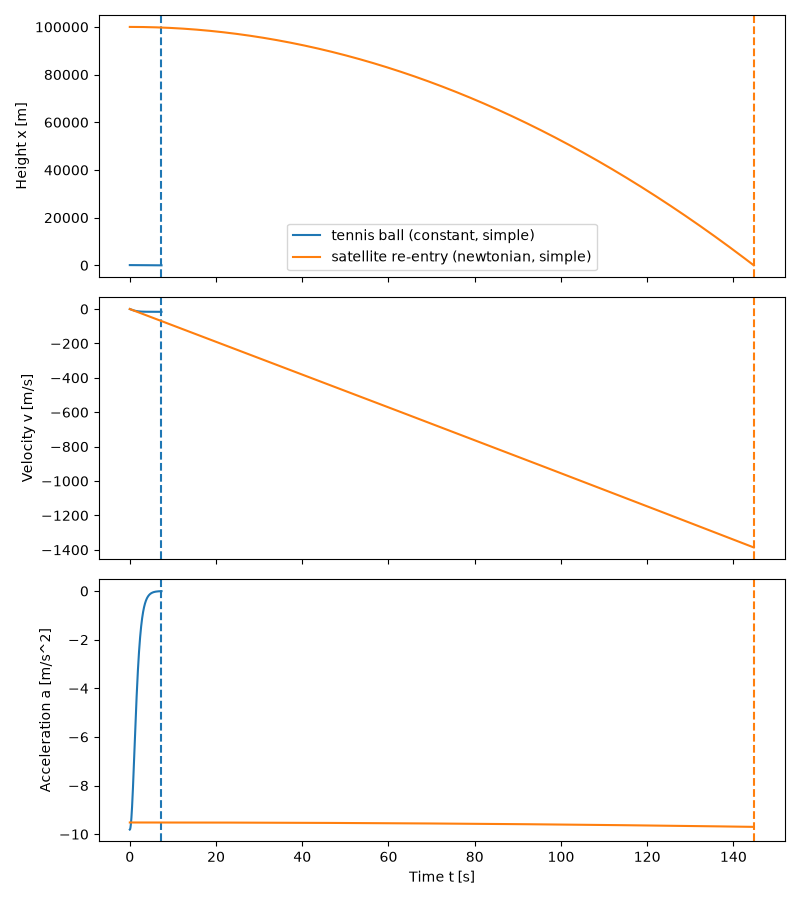
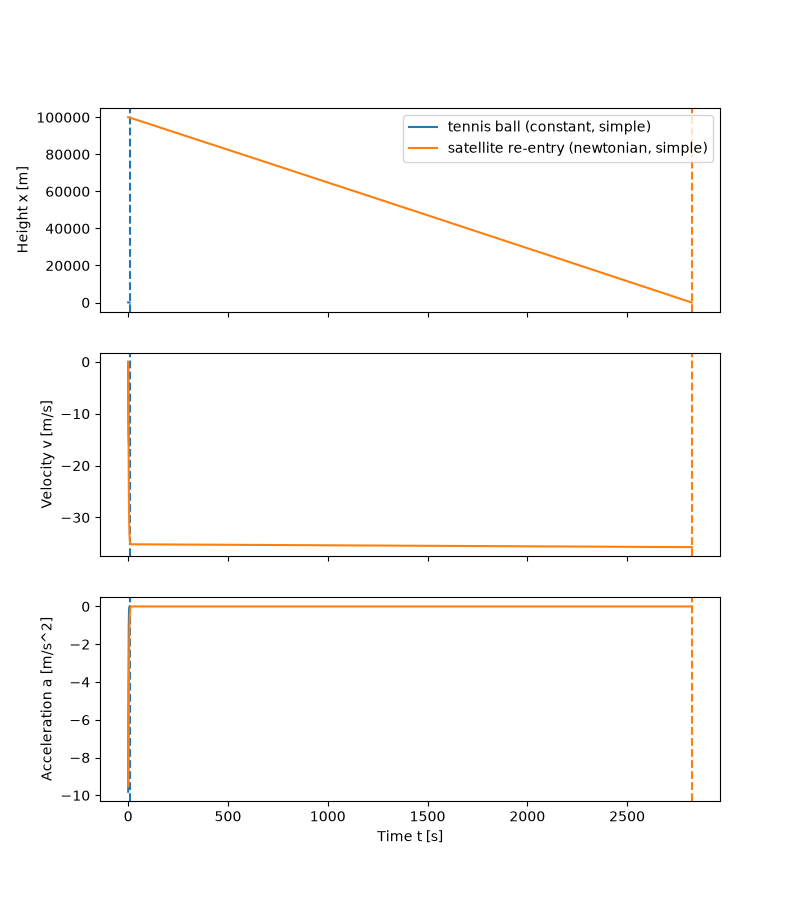
Use sea-level air density in the satellite preset

diff --git a/README.md b/README.md
@@ -7,8 +7,8 @@ It needs Python 3.10 or newer, numpy and matplotlib.
 ![Height, velocity and acceleration of the tennis ball and the satellite re-entry presets on shared axes](docs/plot_overlay.png)
 
 The plot overlays the two shipped presets.
-On shared axes the tennis ball (100 m, about 7 s) is a flat line near zero in the height and velocity panels.
-Its curve is clear only in the acceleration panel.
+The satellite falls at 35 to 36 m/s for most of its 2824 s run, so its height curve is almost a straight line.
+On shared axes the tennis ball run (100 m, about 7 s) is a short line near t = 0 in each panel.
 
 ## Quick start
 
@@ -136,7 +136,7 @@ Each run prints one summary line. For the two presets, the output is:
 
 ```
 tennis ball: impact at t = 7.348 s, v = -16.088 m/s, max speed 16.088 m/s
-satellite re-entry: impact at t = 144.732 s, v = -1386.184 m/s, max speed 1386.184 m/s
+satellite re-entry: impact at t = 2824.238 s, v = -35.718 m/s, max speed 35.718 m/s
 ```
 
 A plot window opens unless you give `--no-plot`. With two presets, the window overlays both runs.
@@ -205,12 +205,12 @@ Each item has a matching answer, with the same bold name, in "How I would extend
 ### Physics limitations of the brief's model
 
 * **Drag without the one-half factor.** The brief law `|FD| = CD rho v^2 pi r^2` has no one-half factor, so its CD is half of the usual `Cd` in `0.5 Cd rho v^2 A`. The tennis preset uses CD 0.5, a usual sphere value, so its drag is twice the real drag. Its terminal velocity `sqrt(m g / (CD rho pi r^2))` is 16.09 m/s against 22.76 m/s with the usual law, and the 100 m drop lasts 7.35 s against 5.99 s (rk4). A user who copies Cd from a textbook gets twice the drag with no warning.
-* **Constant fluid density.** One density applies from the start height to the ground. The satellite preset uses 1e-5 kg/m^3 from 100 km, so at impact the drag is 60 N against 4.9 kN of weight. It hits at 1386 m/s, close to the vacuum value of 1390.5 m/s, so the run is near free fall. Sea-level air (1.225 kg/m^3) is about 120,000 times denser than the preset value. The preset demonstrates Newtonian gravity, not a real re-entry. With `rho = 1.225 exp(-x / 8500)`, the same body peaks at 857 m/s near 54 km and lands at 35.9 m/s (rk4, dt 0.01 s).
-* **Constant drag coefficient.** CD is one number for the whole run, with no change for Reynolds number, Mach number or rarefied air. The satellite preset hits the ground at about Mach 4.1 (`a = sqrt(1.4 * 287.05 * T)` with T = 288.15 K at sea level), where shock waves change the drag. For a water droplet (1000 kg/m^3) of radius 10 micrometres with CD 0.5 in air (1.225 kg/m^3), the brief law gives 0.462 m/s. This speed is 38 times the Stokes value of 0.012 m/s (`2 (rho_p - rho_f) g r^2 / (9 mu)`, mu = 1.81e-5 Pa s). A tennis ball above about 44 m/s reaches Re 2e5 (`Re = rho v d / mu`, mu = 1.81e-5 Pa s). Re 2e5 is the start of the textbook drag crisis of a smooth sphere.
+* **Constant fluid density.** One density applies from the start height to the ground. The satellite preset uses sea-level air (1.225 kg/m^3) from 100 km. The exponential model below gives only 9.5e-6 kg/m^3 at 100 km, so the preset has too much drag high up. The body gets to 99 % of its local terminal velocity `sqrt(m g / (CD rho pi r^2))` in about 10 s. It then falls at 35 to 36 m/s and lands after 2824 s at 35.7 m/s. Thus the preset shows terminal velocity on a large scale, not a real re-entry. With `rho = 1.225 exp(-x / 8500)`, the same body peaks at 857 m/s near 54 km and lands at 35.9 m/s (rk4, dt 0.01 s).
+* **Constant drag coefficient.** CD is one number for the whole run, with no change for Reynolds number, Mach number or rarefied air. The satellite preset lands at Mach 0.105 (`a = sqrt(1.4 * 287.05 * T)` with T = 288.15 K at sea level). With the exponential density above, the peak of 857 m/s is Mach 2.5 at this speed of sound. At that Mach number, shock waves change the drag. For a water droplet (1000 kg/m^3) of radius 10 micrometres with CD 0.5 in air (1.225 kg/m^3), the brief law gives 0.462 m/s. This speed is 38 times the Stokes value of 0.012 m/s (`2 (rho_p - rho_f) g r^2 / (9 mu)`, mu = 1.81e-5 Pa s). A tennis ball above about 44 m/s reaches Re 2e5 (`Re = rho v d / mu`, mu = 1.81e-5 Pa s). Re 2e5 is the start of the textbook drag crisis of a smooth sphere.
 * **Vertical motion only.** The state is one height and one velocity. There is no horizontal motion, lift, Magnus force from spin or crosswind. A real re-entry starts near orbital speed, `sqrt(G M / (R + h))` = 7848 m/s at 100 km. A drop from rest at 100 km misses about 97 % of that energy (kinetic 3.08e7 J/kg against potential 9.67e5 J/kg). `Force.force` also has no time argument, so wind gusts or thrust need a change to every force.
 * **No buoyancy and no added mass.** Only weight and drag act. In air, buoyancy on the tennis ball is 0.34 % of its weight (`rho_f V / m`, `V = 4/3 pi r^3`). In water it is 276 %, so a real ball floats, but the model sinks it at 0.563 m/s.
 * **Simple gravity models.** Constant g suits short drops: g changes by 0.003 % over the 100 m tennis drop but by 3.1 % over 100 km. The Newtonian model is a point mass that does not turn. It has no centrifugal term (0.034 m/s^2 at the equator, 0.35 % of g), no Coriolis drift and no oblateness. The inputs g = 9.81 m/s^2 and `G M / R^2` = 9.8195 m/s^2 are separate. Thus a change of model changes g by 0.1 % even near the ground, and the tennis impact time by 0.05 %.
-* **Rigid sphere of constant mass.** The ball has no spin, deformation, heating or mass loss. In a real re-entry, heating and ablation are the main physics. The satellite preset loses only 0.62 % of its energy to drag (3.0e6 J of 4.834e8 J), so it would barely heat.
+* **Rigid sphere of constant mass.** The ball has no spin, deformation, heating or mass loss. In a real re-entry, heating and ablation are the main physics. The satellite preset loses 99.93 % of its start energy to drag (4.831e8 J of 4.834e8 J). In a real re-entry, part of this energy heats the body.
 * **Flat ground and no bounce.** The run stops at the first x <= 0. A tennis ball bounces, but the model ends at the impact speed of 16.09 m/s. It has no terrain height.
 * **Still air.** Drag uses the ball velocity only. There is no wind, updraft, gust or turbulence. An updraft of 16.09 m/s would hold the tennis ball still, and the model cannot show this.
 * **Sphere only, so m, r and CD act as one group.** Without buoyancy, the motion depends only on gravity and the ballistic coefficient `beta = m / (CD pi r^2)`: 32.3 kg/m^2 for the tennis ball and 159.2 kg/m^2 for the satellite. Two bodies with the same beta give the same run, so a fit to data cannot find r or CD alone. A real satellite or capsule is not a sphere.
@@ -219,14 +219,14 @@ Each item has a matching answer, with the same bold name, in "How I would extend
 
 * **Fixed step with no error control.** Both integrators use the step that the user sets, with no error estimate and no warning. The drag time scale `tau = v_t / g` is 1.64 s for the tennis ball and 0.047 s for the 10 micrometre droplet. At dt 2 s the simple scheme gives an impact speed of 10.21 m/s instead of 16.09 m/s. At dt 5 s rk4 reports an upward "impact" at +965 m/s. The summary line looks normal in both cases.
 * **Linear impact interpolation.** The run finds the impact on a straight line between the last two samples. For a 100 m drop in vacuum, the bound on the added impact-time error is `g dt^2 / (8 |v|)`. This bound is 2.8e-6 s at dt 0.01 s and 6.9e-3 s at dt 0.5 s. The measured error at dt 0.5 s is 7.8e-4 s.
-* **R + x = 0 not handled.** The brief says not to handle it, and the run stops at the ground. But rk4 trial states inside one step can go below the ground. An example is the satellite preset with R = 1 m, initial height 50 m, initial velocity -100 m/s, rk4 and dt 1 s. The speed overflows to inf, inf - inf gives nan, and the run ends airborne with a height of nan. Numpy gives only runtime warnings. The radius of the Earth makes this case unreachable in practice.
+* **R + x = 0 not handled.** The brief says not to handle it, and the run stops at the ground. But rk4 trial states inside one step can go below the ground. An example is the satellite preset with R = 1 m, initial height 50 m, initial velocity -100 m/s, rk4 and dt 1 s. Set its fluid density to 1e-5 kg/m^3 and its finish time to 300 s. The speed overflows to inf, inf - inf gives nan, and the run ends airborne with a height of nan. Numpy gives only runtime warnings. With the preset density of 1.225 kg/m^3, the same case reports an impact at t = 0 s at +1.5e36 m/s, with no warning. The radius of the Earth makes this case unreachable in practice.
 * **Step cap and memory.** `validate` rejects more than 1e7 steps. `run` stores four float64 arrays sized by the finish time, not by the impact: 32 B per sample, about 320 MB at the cap. If the finish time is too short, the run ends in the air.
 * **No energy check per run.** Only the test suite checks accuracy. A user who runs new values gets no indicator of numerical error.
 
 ### Many users and software
 
-* **Silent defaults.** A preset that omits a key gets the tennis ball value, with no warning. The satellite preset without `fluid_density` runs in sea-level air and is still at 89.5 km after 300 s.
-* **Implicit units.** All values are bare SI numbers. The satellite preset with `initial_height` 100, meant as 100 km, lands at 4.513 s and 44.314 m/s with no warning.
+* **Silent defaults.** A preset that omits a key gets the tennis ball value, with no warning. The satellite preset without `finish_time` gets 10 s and stops in the air at 99.7 km.
+* **Implicit units.** All values are bare SI numbers. The satellite preset with `initial_height` 100, meant as 100 km, lands at 5.090 s and 31.780 m/s with no warning.
 * **No preset version.** Presets have no version field. A new key or a new default can change or break old presets, and there is no migration path.
 * **CSV without context.** The CSV holds only `t,x,v,a`. It has no parameters, units, integrator, time step or code version. Two runs with the same name write to the same file.
 * **Booleans read as numbers.** The loader casts with `float()`, so a preset value of `true` or `false` becomes 1 or 0.
@@ -277,7 +277,7 @@ I prototyped these on a separate branch of my repository and left them out of th
 * **Animated ball with force arrows.** The ball moves on a height scale. A blue arrow shows drag and a red arrow shows weight, on one scale, so the two arrows match at terminal velocity.
 * **Growing graphs.** Height, velocity and acceleration graphs grow with time on fixed axes. A dashed line marks the terminal velocity.
 * **Gauges.** Bars show drag, weight and speed as a share of their run maximum. One bar splits the energy into kinetic, potential and lost to drag.
-* **Readout with terminal velocity and the energy balance.** A panel shows 13 values at the current time, with the local terminal velocity and the ratio of drag to weight. The energy balance checks the integrator with no reference solution: its maximum relative error is 5.37e-4 for the tennis ball and 8.76e-6 for the satellite. One module computes these values from the core force classes, so the viewer code holds no physics.
+* **Readout with terminal velocity and the energy balance.** A panel shows 13 values at the current time, with the local terminal velocity and the ratio of drag to weight. The energy balance checks the integrator with no reference solution: its maximum relative error is 5.37e-4 for the tennis ball. One module computes these values from the core force classes, so the viewer code holds no physics.
 * **Playback controls.** The viewer has pause and resume, restart, a stepped speed slider from x0.25 to x100, a time scrubber, and the space and r keys. Playback follows the wall clock, so a slow redraw does not slow the simulated time.
 * **Animate button.** One GUI button animates the current parameters in one window that it reuses. The GUI imports the viewer only when you press the button, so the core runs without it. `python -m extras.animate` gives the same view from the command line.
 
@@ -286,7 +286,7 @@ I prototyped these on a separate branch of my repository and left them out of th
 * **No CI.** Run GitHub Actions on each push. A change must pass before merge.
 * **One platform tested.** Run the CI jobs on Linux, Windows and macOS with Python 3.10 and the latest Python. Each job runs pytest and `start.py --no-gui`. The Windows job also runs `start.bat --no-gui`.
 * **Unpinned requirements.** Keep version ranges in `requirements.txt` and add a constraints file with the tested set (numpy 2.5.4, matplotlib 3.11.2, pytest 9.2.0). Add one CI job on the minimum versions.
-* **Regression baselines.** Store the impact time and speed of each preset (7.348 s and 16.088 m/s, 144.732 s and 1386.184 m/s). A test fails when a change moves them beyond a set tolerance. This protects existing users when I add features.
+* **Regression baselines.** Store the impact time and speed of each preset (7.348 s and 16.088 m/s, 2824.238 s and 35.718 m/s). A test fails when a change moves them beyond a set tolerance. This protects existing users when I add features.
 * **Property-based tests.** Generate random valid inputs and check rules that must always hold. Drag opposes motion. With constant g and a small time step, a drop from rest never passes terminal velocity. The energy residual stays small.
 * **No GUI test.** Add a headless smoke test under xvfb that fills the fields, runs, and checks the status text and the plot lines.
 * **Packaging.** Add a `[project]` section and a `ballsim` script entry to the existing `pyproject.toml`. Then users can install the package with pip and import it in their own scripts.
